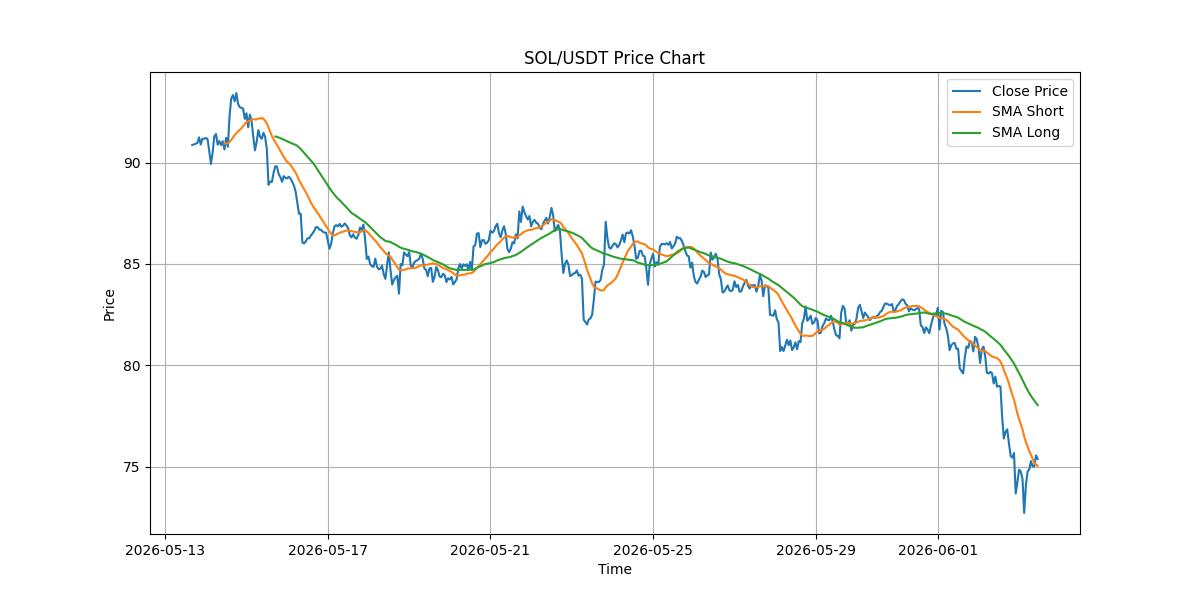
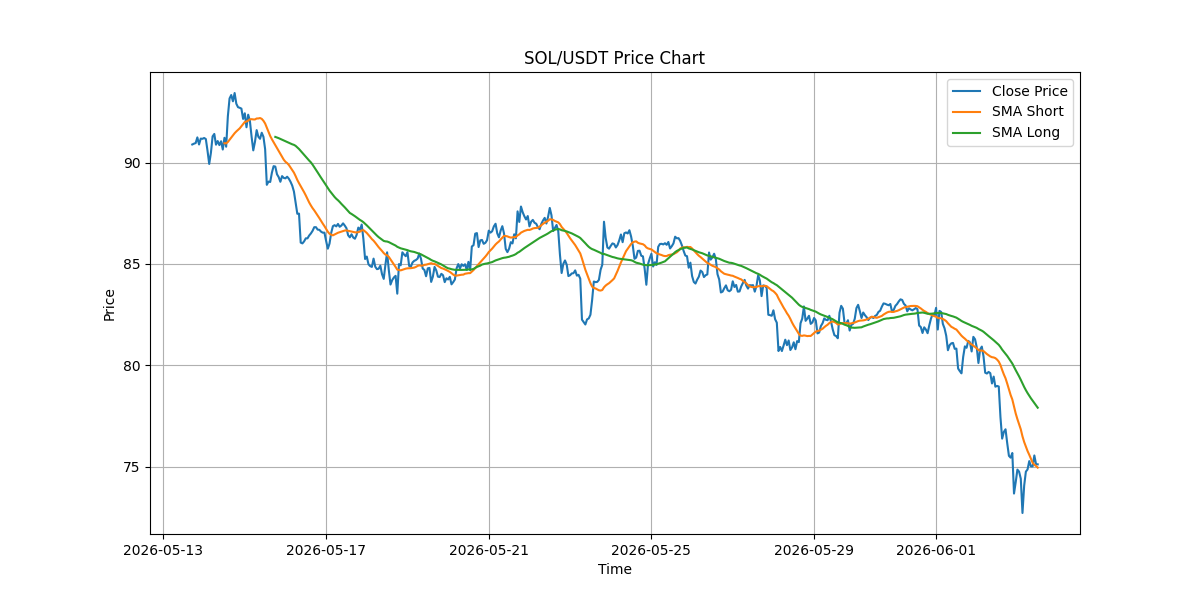
Add portfolio analytics for paper trading

diff --git a/paper_trading/analytics.py b/paper_trading/analytics.py
@@ -1,0 +1,53 @@
+def calculate_portfolio_analytics(portfolio_status):
+    trades = portfolio_status["trades"]
+
+    closed_trades = [
+        trade for trade in trades
+        if "profit" in trade
+    ]
+
+    total_trades = len(closed_trades)
+
+    winning_trades = [
+        trade for trade in closed_trades
+        if trade["profit"] > 0
+    ]
+
+    losing_trades = [
+        trade for trade in closed_trades
+        if trade["profit"] <= 0
+    ]
+
+    total_profit = sum(
+        trade["profit"] for trade in closed_trades
+    )
+
+    if total_trades > 0:
+        win_rate = (len(winning_trades) / total_trades) * 100
+        best_trade = max(trade["profit"] for trade in closed_trades)
+        worst_trade = min(trade["profit"] for trade in closed_trades)
+        average_profit = total_profit / total_trades
+    else:
+        win_rate = 0
+        best_trade = 0
+        worst_trade = 0
+        average_profit = 0
+
+    starting_balance = portfolio_status["starting_balance"]
+    total_value = portfolio_status["total_value"]
+
+    net_profit = total_value - starting_balance
+    return_percentage = (net_profit / starting_balance) * 100
+
+    return {
+        "total_trades": total_trades,
+        "winning_trades": len(winning_trades),
+        "losing_trades": len(losing_trades),
+        "win_rate": round(win_rate, 2),
+        "total_profit": round(total_profit, 2),
+        "best_trade": round(best_trade, 2),
+        "worst_trade": round(worst_trade, 2),
+        "average_profit": round(average_profit, 2),
+        "net_profit": round(net_profit, 2),
+        "return_percentage": round(return_percentage, 2)
+    }

diff --git a/main.py b/main.py
@@ -35,6 +35,7 @@ paper_engine = PaperTradingEngine(
     symbols=SYMBOLS,
     starting_balance=1000
 )
+from paper_trading.analytics import calculate_portfolio_analytics
 
 def main(symbol):
     df = fetch_candle_data(
@@ -112,6 +113,8 @@ def main(symbol):
     current_price=price
 )
 
+    analytics = calculate_portfolio_analytics(paper_status)
+
     print("===== PAPER TRADING STATUS =====")
     print(f"Cash Balance: {paper_status['cash_balance']}")
     print(f"Position: {paper_status['position']}")
@@ -119,6 +122,19 @@ def main(symbol):
     print(f"Quantity: {paper_status['quantity']}")
     print(f"Unrealized Profit: {paper_status['unrealized_profit']}")
     print(f"Total Value: {paper_status['total_value']}")
+    print("================================\n")
+
+    print("===== PORTFOLIO ANALYTICS =====")
+    print(f"Total Trades: {analytics['total_trades']}")
+    print(f"Winning Trades: {analytics['winning_trades']}")
+    print(f"Losing Trades: {analytics['losing_trades']}")
+    print(f"Win Rate: {analytics['win_rate']}%")
+    print(f"Total Profit: {analytics['total_profit']}")
+    print(f"Best Trade: {analytics['best_trade']}")
+    print(f"Worst Trade: {analytics['worst_trade']}")
+    print(f"Average Profit: {analytics['average_profit']}")
+    print(f"Net Profit: {analytics['net_profit']}")
+    print(f"Return Percentage: {analytics['return_percentage']}%")
     print("================================\n")
 
 if __name__ == "__main__":
